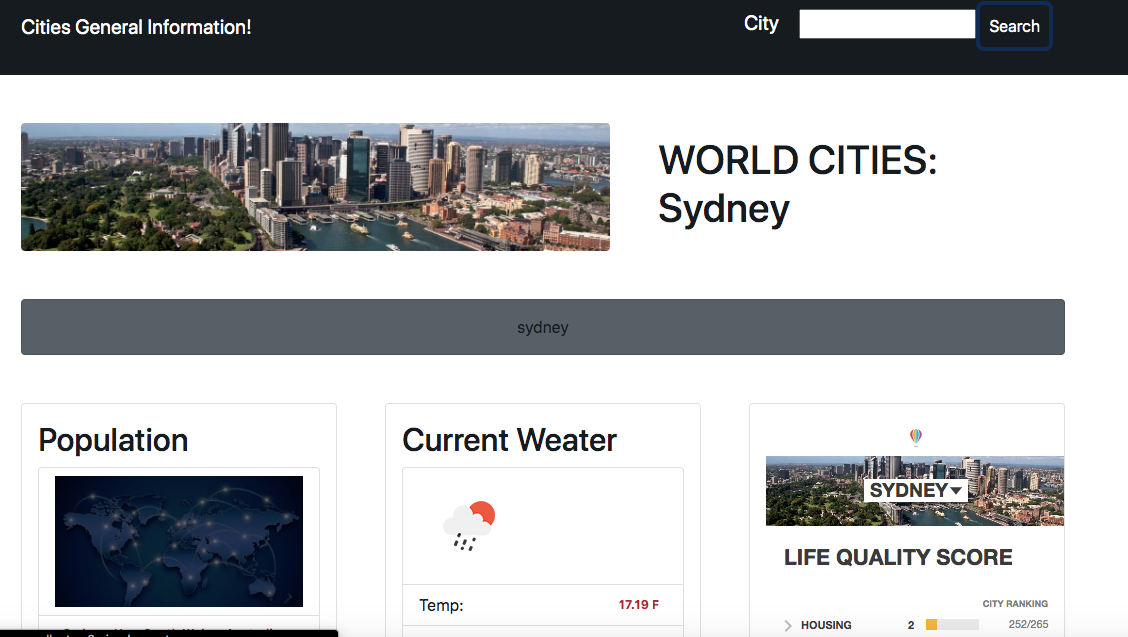
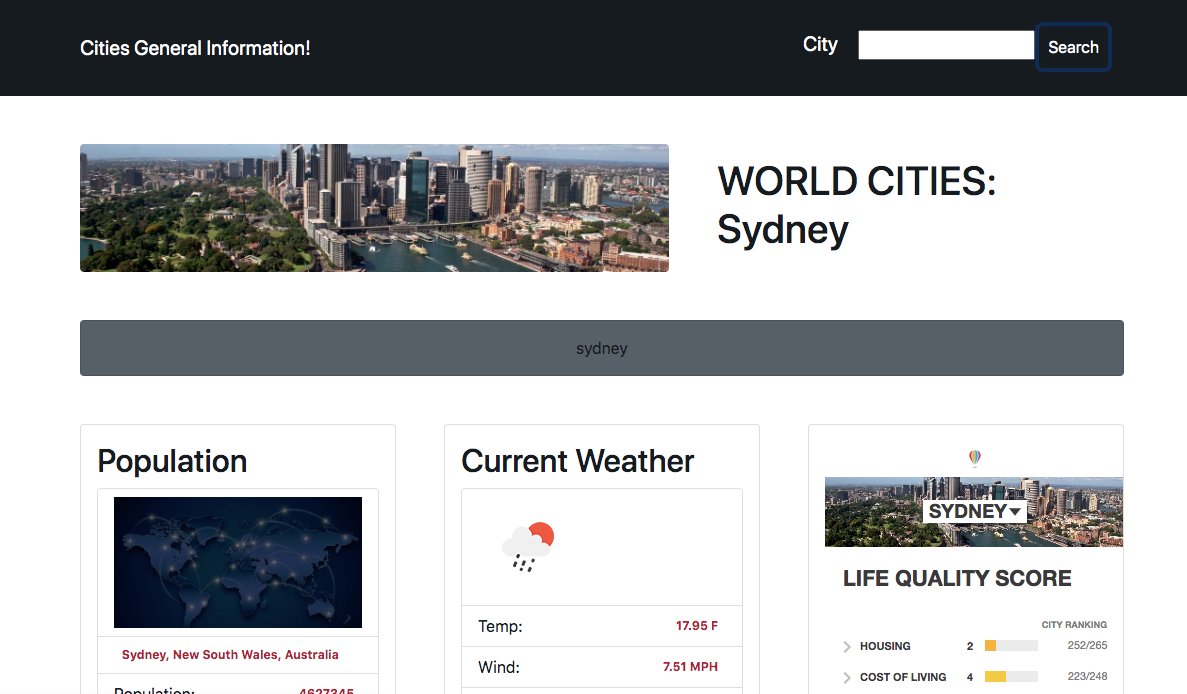
weather misspelling fixed

diff --git a/Assets/js/homepage.js b/Assets/js/homepage.js
@@ -65,20 +65,20 @@ var getCityInfo = function(weatherResults){
       if (response.ok){
           response.json().then(function (data) {
             let ver =JSON.stringify(data);
-            console.log("data___ "+JSON.stringify(data));
-            console.log("data keys 1 "+Object.keys(data));//good one  _embedded,_links,coordinates
-            console.log("DATA keys 2 "+Object.keys(data._embedded));//location:nearest-cities,location:nearest-urban-areas
-            console.log("DATA keys 3 "+Object.keys(data._embedded['location:nearest-urban-areas']));
-            console.log("string "+JSON.stringify(data._embedded['location:nearest-urban-areas']));
+            // console.log("data___ "+JSON.stringify(data));
+            // console.log("data keys 1 "+Object.keys(data));//good one  _embedded,_links,coordinates
+            // console.log("DATA keys 2 "+Object.keys(data._embedded));//location:nearest-cities,location:nearest-urban-areas
+            // console.log("DATA keys 3 "+Object.keys(data._embedded['location:nearest-urban-areas']));
+            // console.log("string "+JSON.stringify(data._embedded['location:nearest-urban-areas']));
             //getin urban areas
             let urban = JSON.stringify(data._embedded['location:nearest-urban-areas']);// take just the part related to ubran area
             //convert urban to object again
             let urban2 = JSON.parse(urban);
-            console.log("DATA keys 4 "+ Object.keys(urban2[0]));//_links,distance_km
-            console.log("DATA keys 5 "+ Object.keys(urban2[0]['_links']['location:nearest-urban-area']));//href, name
+            // console.log("DATA keys 4 "+ Object.keys(urban2[0]));//_links,distance_km
+            // console.log("DATA keys 5 "+ Object.keys(urban2[0]['_links']['location:nearest-urban-area']));//href, name
             //getiing the urban area link (to get more information about the place) and name 
             let urbanAreaName = urban2[0]['_links']['location:nearest-urban-area'].name;
-            console.log("DATA keys 6 "+ urbanAreaName);//San Francisco Bay Area !!!!
+            // console.log("DATA keys 6 "+ urbanAreaName);//San Francisco Bay Area !!!!
             //create a slug
             let slug = urbanAreaName.replace(/\W+/g, '-').toLowerCase();
             //population information
@@ -207,7 +207,7 @@ var displayWeather = function (weatherParams, searchTerm) {
         weatherCard.classList = "flex-row weather-card";
         weatherCard.innerHTML = weatherCard.innerHTML =
         `<section class="weather-card" id="day0">
-            <h2 class="card-title">Current Weater</h2>
+            <h2 class="card-title">Current Weather</h2>
             <ul class="list-group">
               <li class="list-group-item d-flex justify-content-between align-items-center">
                 <img src="http://openweathermap.org/img/wn/${currentDay.weather[0].icon}@2x.png" alt="${currentDay.weather[0].description}" />
